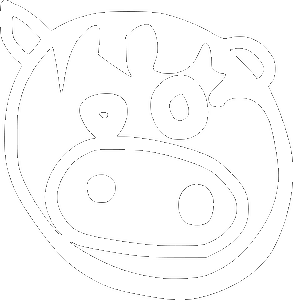
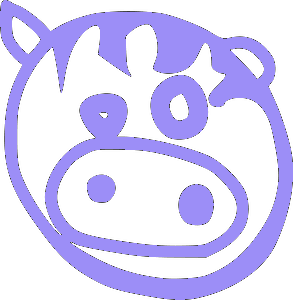
Update

diff --git a/index.html b/index.html
@@ -8,7 +8,7 @@
 
 	<body>
 		<div>
-			<a href="https://github.com/avudn/"> <img src="exherbo2.png" class="header" height=150px></a>
+			<a href="https://github.com/avudn/"> <img src="exherbo2.png" class="header" height=100px></a>
 			<a href="https://github.com/avudn/"> <h1 style=" margin-top: 10px;"> avudn </h1></a>
 			<p> keep it simple, stupid! <br><br>
 
